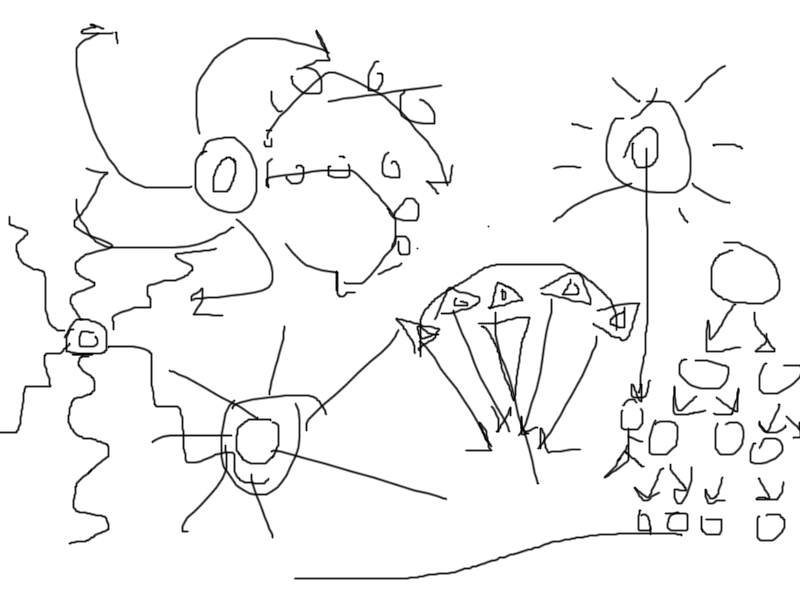
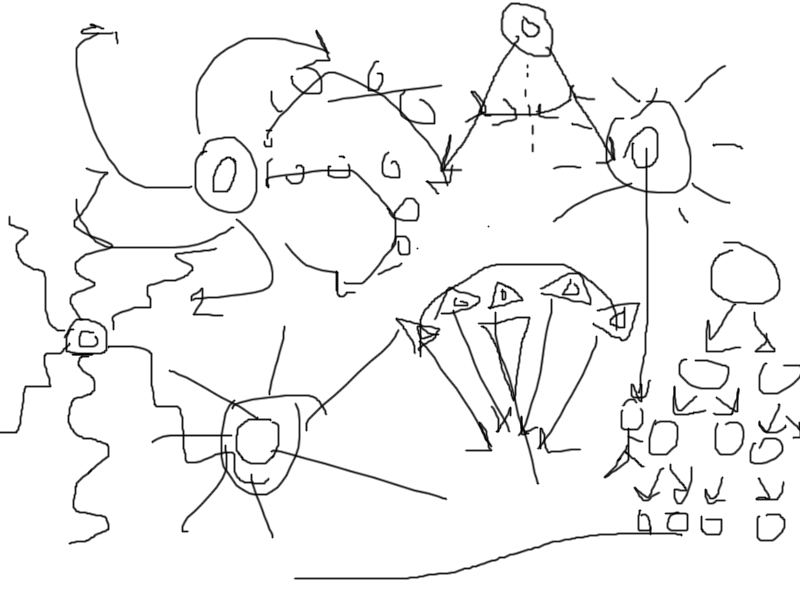
Attack Varieties

Changed region(s): [[0.5312, 0.0, 0.75, 0.3], [0.75, 0.21, 0.7812, 0.27]]

diff --git a/enemies.js b/enemies.js
@@ -166,7 +166,7 @@ class Enemy {
             return;
         }
 
-        let states = ["idle", "move", "attack"];
+        let states = ["attack"]; //["idle", "move", "attack"];
         this.state = random(states);
         this.currentTimeBetweenStates = 0;
         this.timeBetweenStates = this.state === "attack"? 750 : random(this.minTimeBetweenStates, this.maxTimeBetweenStates);
@@ -177,10 +177,15 @@ class Enemy {
 
     }
 
+    displayBullets() {
+
+    }
+
     render() {
         this.applyState();
         this.changeState();
         this.display();
+        this.displayBullets();
         if (this.alive) {
             this.displayHealthBar();
         }
@@ -210,6 +215,9 @@ class VarkolynLeader  extends Enemy {
         super(x, y, pixelWidth, pixelHeight, health);
 
         this.enemyBulletImage = null;
+        this.bullets = [];
+        this.bulletAmount = 5;
+        this.bulletsDeley = 0.1;
     }
 
     attack() {
@@ -223,6 +231,26 @@ class VarkolynLeader  extends Enemy {
 
     loadAdditionalData() {
         this.enemyBulletImage = loadImage("Enemies/Sprites/EnergySphere.gif");
+    }
+
+    createBullet() {
+        return new SinusoidalAttack(this.bulletStartX, this.bulletStartY, 20, 20);
+    }
+
+    shootBullet() {
+        // Make deley for spwaning bullets
+        for (let i = 0; i < this.bulletAmount; i++) {
+            console.log(`Creating ${this.bulletAmount} bullets`);
+            this.bulletStartX = this.x + this.pixelWidth * 2 / 3 + 125;
+            this.bulletStartY = this.y + 125;
+            this.bullets.push(this.createBullet()); 
+        }
+    }
+
+    displayBullets() {
+        for (let bullet of this.bullets) {
+            bullet.render();
+        }
     }
 }
 
@@ -244,3 +272,42 @@ window.PhantomKing = PhantomKing;
 window.VarkolynLeader = VarkolynLeader;
 window.ChristmasTreant = ChristmasTreant;
 window.Nian = Nian;
+
+// Attack variaties
+class StraightAttack {
+
+}
+
+class SinusoidalAttack {
+    constructor (x, y, bulletWidth, bulletHeight, speed) {
+        this.x = x;
+        this.y = y;
+        this.bulletWidth = bulletWidth;
+        this.bulletHeight = bulletHeight;
+        this.bulletSpeed = 5;
+    }
+
+    display() {
+        fill("red");
+        circle(this.x, this.y, this.bulletWidth);
+    }
+
+    move() {
+        push();
+        translate(this.x, this.y);
+        this.x += this.bulletSpeed;
+        this.y = 75 * sin(this.x / 100) + 125 / 2;
+        this.y += enemies[0].y;
+        pop();
+    }
+
+    render() {
+        this.move();
+        this.display();
+    }
+}
+
+
+class Lazer {
+    
+}
